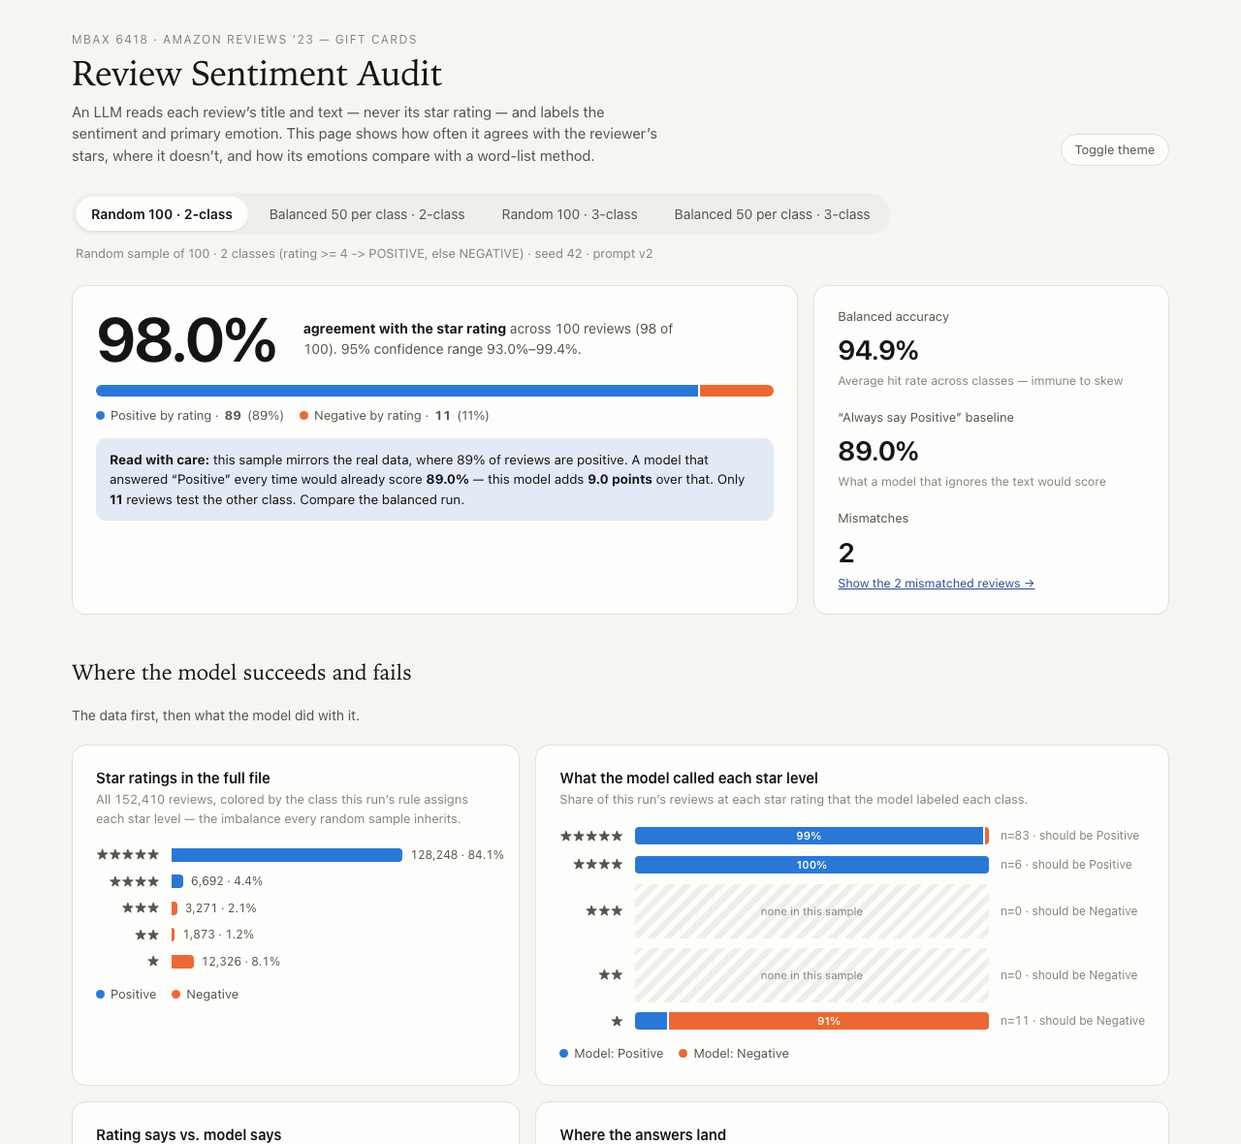
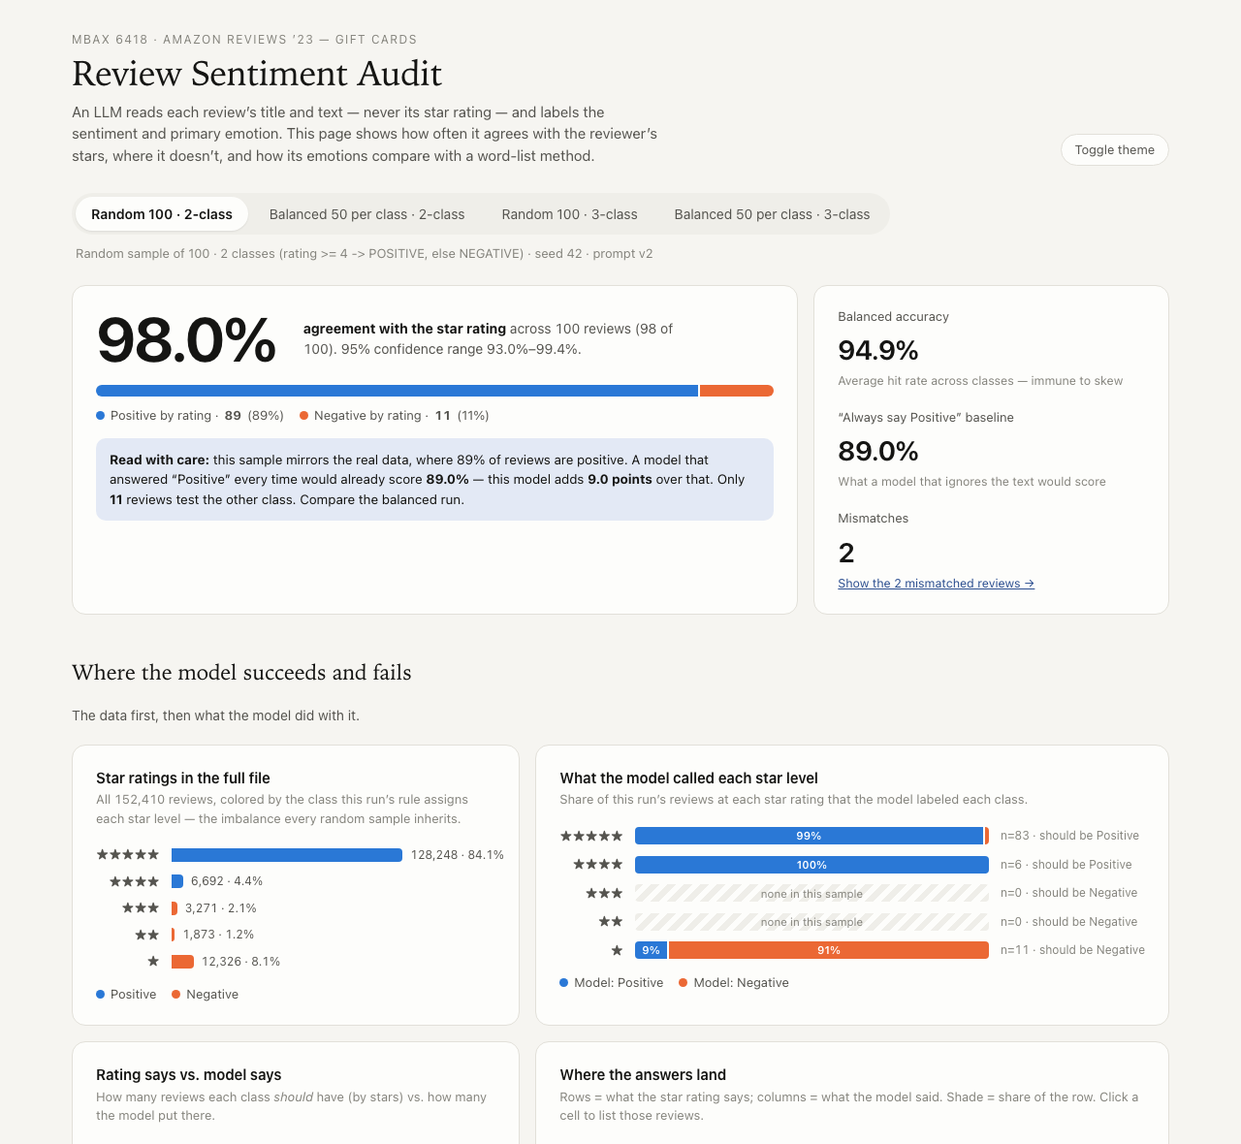
Update project

Changed region(s): [[0.4375, 0.7627, 0.9375, 1.0], [0.0625, 0.9153, 0.4062, 1.0]]

diff --git a/verify_dashboard.js b/verify_dashboard.js
@@ -91,3 +91,57 @@
   const bad = out.filter(x => x.includes('MISMATCH'));
   return `${out.length} checks, ${bad.length} mismatches\n` + (bad.length ? bad.join('\n') + '\n---\n' : '') + out.join('\n');
 })();
+
+// ── Geometry check (Step 7: "bars given zero width by a label/positioning interaction") ──
+// Run once per viewport width (e.g. 1280 / 768 / 375). For every chart on every run:
+//  * each non-zero bar/segment is >= 3px wide (never collapsed),
+//  * bar lengths are proportional to their values (within 1.5px, except where the 3px floor applies),
+//  * labels drawn inside stacked segments fit inside them,
+//  * value labels next to bars stay inside their card, and the page has no horizontal overflow.
+(() => {
+  const out = [], px = el => el.getBoundingClientRect();
+  const chk = (id, name, ok, detail = '') => out.push(`${id} | ${name}: ${ok ? 'OK' : 'FAIL'} ${detail}`);
+  const within = (a, b, tol = 1.5) => Math.abs(a - b) <= tol;
+  let shown = 0, hidden = 0;
+  for (const r of DATA.runs) {
+    selectRun(r.id);
+    // plain bar charts: all bars in one chart share one scale
+    for (const chart of ['#starDist', '#rvm', '#emoBars']) {
+      const root = $(chart); if (!root || root.offsetParent === null) continue;
+      const bars = [...root.querySelectorAll('.bar')].map(b => ({ b, v: parseFloat(b.style.width.split('*')[1]) }));
+      const card = root.closest('.card').getBoundingClientRect();
+      const maxW = Math.max(...bars.map(x => px(x.b).width));
+      bars.forEach(({ b, v }, i) => {
+        const w = px(b).width, want = v * maxW;
+        if (v > 0) chk(r.id, `${chart} bar ${i} not collapsed`, w >= 3, `${w.toFixed(1)}px`);
+        if (want >= 3) chk(r.id, `${chart} bar ${i} proportional`, within(w, want), `${w.toFixed(1)} vs ${want.toFixed(1)}px`);
+        const label = b.nextElementSibling;
+        if (label) chk(r.id, `${chart} label ${i} inside card`, px(label).right <= card.right - 8, `${px(label).right.toFixed(0)} <= ${(card.right - 8).toFixed(0)}`);
+      });
+    }
+    // 100% stacked rows (model label by star) + hit-rate tracks: segments ∝ counts
+    const stacks = [...document.querySelectorAll('#starPred .stack:not(.empty)')].map(s => [s, [...s.children].map(c => +c.dataset.count)]);
+    const tracks = [...document.querySelectorAll('#bars .track')].map(t => [t, [...t.children].map(c => +(c.getAttribute('style').match(/flex:(\d+)/)[1]))]);
+    for (const [row, counts] of [...stacks, ...tracks]) {
+      const segs = [...row.children], n = counts.reduce((a, b) => a + b, 0);
+      const usable = px(row).width - 2 * (segs.length - 1);          // 2px gaps
+      const floor = counts.filter(c => usable * c / n < 3).length;   // segments lifted to 3px
+      segs.forEach((s, i) => {
+        const w = px(s).width, want = usable * counts[i] / n;
+        chk(r.id, `stack segment (${counts[i]}/${n}) not collapsed`, w >= 3, `${w.toFixed(1)}px`);
+        if (!floor) chk(r.id, `stack segment (${counts[i]}/${n}) proportional`, within(w, want), `${w.toFixed(1)} vs ${want.toFixed(1)}px`);
+        // measure the text itself (scrollWidth equals clientWidth whenever text fits, so it can't tell)
+        const tw = el => { const g = document.createRange(); g.selectNodeContents(el); return g.getBoundingClientRect().width; };
+        if (s.textContent.trim()) { shown++; chk(r.id, `in-bar label "${s.textContent}" fits`, tw(s) + 8 <= s.clientWidth + 0.5, `${tw(s).toFixed(1)}+8 <= ${s.clientWidth}`); }
+        else if (s.dataset.lbl) {   // a hidden label must be one that genuinely would not fit
+          hidden++; s.textContent = s.dataset.lbl; const need = tw(s) + 8, have = s.clientWidth; s.textContent = '';
+          chk(r.id, `hidden label "${s.dataset.lbl}" really too wide`, need > have, `${need.toFixed(1)} > ${have}`);
+        }
+      });
+    }
+  }
+  selectRun(DATA.default_run);
+  chk('page', 'no horizontal overflow', document.documentElement.scrollWidth <= innerWidth, `${document.documentElement.scrollWidth} <= ${innerWidth}`);
+  const bad = out.filter(x => x.includes('FAIL'));
+  return `viewport ${innerWidth}px: ${out.length} geometry checks, ${bad.length} failures (in-bar labels shown ${shown}, hidden ${hidden})\n` + bad.join('\n');
+})();

diff --git a/dashboard.html b/dashboard.html
@@ -97,7 +97,12 @@ p.section-sub { grid-column: span 12; margin: 0 0 4px; color: var(--ink-2); font
 .span-12 { grid-column: span 12; } .span-8 { grid-column: span 8; } .span-7 { grid-column: span 7; }
 .span-6 { grid-column: span 6; } .span-5 { grid-column: span 5; } .span-4 { grid-column: span 4; }
 @media (max-width: 900px) { .span-8, .span-7, .span-6, .span-5, .span-4 { grid-column: span 12; } }
-@media (max-width: 520px) { .wrap { padding: 20px 16px 48px; } h1 { font-size: 28px; } .card { padding: 18px 16px; } }
+@media (max-width: 520px) {
+  .wrap { padding: 20px 16px 48px; } h1 { font-size: 28px; } .card { padding: 18px 16px; }
+  /* phones: the "n=… · should be …" note moves under its bar so the bar keeps the full width */
+  .stack-grid { grid-template-columns: max-content 1fr; row-gap: 2px; }
+  .stack-grid .stack-n { grid-column: 2; margin-bottom: 8px; }
+}
 
 .hero { display: flex; gap: 28px; align-items: center; flex-wrap: wrap; }
 .hero-fig { font-size: 64px; font-weight: 650; letter-spacing: -.03em; line-height: 1; }
@@ -457,14 +462,26 @@ function renderStarPred() {
   $('#starPred').innerHTML = [5, 4, 3, 2, 1].map(s => {
     const row = sp[s] || {}, n = L.reduce((a, l) => a + (row[l] || 0), 0), t = truthOf(s, L);
     const bar = n ? `<div class="stack">${L.filter(l => row[l]).map(l => {
-        const share = row[l] / n, lbl = share >= 0.12 ? `${Math.round(share * 100)}%` : '';
-        return `<span class="inseg" data-star="${s}" data-label="${l}" data-count="${row[l]}" style="flex:${row[l]};background:${classVar(l)}" title="${s}★ → model said ${cap(l)}: ${row[l]} of ${n} (${pct(share)})">${lbl}</span>`;
+        const share = row[l] / n;
+        return `<span class="inseg" data-star="${s}" data-label="${l}" data-count="${row[l]}" data-lbl="${Math.round(share * 100)}%" style="flex:${row[l]};background:${classVar(l)}" title="${s}★ → model said ${cap(l)}: ${row[l]} of ${n} (${pct(share)})"></span>`;
       }).join('')}</div>`
       : `<div class="stack empty">none in this sample</div>`;
     return `<div class="lab">${'★'.repeat(s)}</div>${bar}<div class="stack-n num">n=${n} · should be ${cap(t)}</div>`;
   }).join('');
   $('#starPredLegend').innerHTML = L.map(l => `<span class="key"><span class="dot" style="background:${classVar(l)}"></span>Model: ${cap(l)}</span>`).join('');
+  fitSegmentLabels();
 }
+/* Show a percentage inside a segment only if it actually fits (measured, with 4px padding each side).
+   A fixed share threshold overflowed at phone width; re-measured on every resize. */
+const textWidth = el => { const r = document.createRange(); r.selectNodeContents(el); return r.getBoundingClientRect().width; };
+function fitSegmentLabels() {
+  document.querySelectorAll('#starPred .inseg').forEach(el => {
+    el.textContent = el.dataset.lbl;
+    if (textWidth(el) + 8 > el.clientWidth) el.textContent = '';   // measure the text itself, not scrollWidth
+  });
+}
+let _fitTimer;
+addEventListener('resize', () => { clearTimeout(_fitTimer); _fitTimer = setTimeout(fitSegmentLabels, 60); });
 
 /* ── step 7c: rating says vs model says ── */
 function renderRvm() {

diff --git a/dashboard_template.html b/dashboard_template.html
@@ -97,7 +97,12 @@ p.section-sub { grid-column: span 12; margin: 0 0 4px; color: var(--ink-2); font
 .span-12 { grid-column: span 12; } .span-8 { grid-column: span 8; } .span-7 { grid-column: span 7; }
 .span-6 { grid-column: span 6; } .span-5 { grid-column: span 5; } .span-4 { grid-column: span 4; }
 @media (max-width: 900px) { .span-8, .span-7, .span-6, .span-5, .span-4 { grid-column: span 12; } }
-@media (max-width: 520px) { .wrap { padding: 20px 16px 48px; } h1 { font-size: 28px; } .card { padding: 18px 16px; } }
+@media (max-width: 520px) {
+  .wrap { padding: 20px 16px 48px; } h1 { font-size: 28px; } .card { padding: 18px 16px; }
+  /* phones: the "n=… · should be …" note moves under its bar so the bar keeps the full width */
+  .stack-grid { grid-template-columns: max-content 1fr; row-gap: 2px; }
+  .stack-grid .stack-n { grid-column: 2; margin-bottom: 8px; }
+}
 
 .hero { display: flex; gap: 28px; align-items: center; flex-wrap: wrap; }
 .hero-fig { font-size: 64px; font-weight: 650; letter-spacing: -.03em; line-height: 1; }
@@ -457,14 +462,26 @@ function renderStarPred() {
   $('#starPred').innerHTML = [5, 4, 3, 2, 1].map(s => {
     const row = sp[s] || {}, n = L.reduce((a, l) => a + (row[l] || 0), 0), t = truthOf(s, L);
     const bar = n ? `<div class="stack">${L.filter(l => row[l]).map(l => {
-        const share = row[l] / n, lbl = share >= 0.12 ? `${Math.round(share * 100)}%` : '';
-        return `<span class="inseg" data-star="${s}" data-label="${l}" data-count="${row[l]}" style="flex:${row[l]};background:${classVar(l)}" title="${s}★ → model said ${cap(l)}: ${row[l]} of ${n} (${pct(share)})">${lbl}</span>`;
+        const share = row[l] / n;
+        return `<span class="inseg" data-star="${s}" data-label="${l}" data-count="${row[l]}" data-lbl="${Math.round(share * 100)}%" style="flex:${row[l]};background:${classVar(l)}" title="${s}★ → model said ${cap(l)}: ${row[l]} of ${n} (${pct(share)})"></span>`;
       }).join('')}</div>`
       : `<div class="stack empty">none in this sample</div>`;
     return `<div class="lab">${'★'.repeat(s)}</div>${bar}<div class="stack-n num">n=${n} · should be ${cap(t)}</div>`;
   }).join('');
   $('#starPredLegend').innerHTML = L.map(l => `<span class="key"><span class="dot" style="background:${classVar(l)}"></span>Model: ${cap(l)}</span>`).join('');
+  fitSegmentLabels();
 }
+/* Show a percentage inside a segment only if it actually fits (measured, with 4px padding each side).
+   A fixed share threshold overflowed at phone width; re-measured on every resize. */
+const textWidth = el => { const r = document.createRange(); r.selectNodeContents(el); return r.getBoundingClientRect().width; };
+function fitSegmentLabels() {
+  document.querySelectorAll('#starPred .inseg').forEach(el => {
+    el.textContent = el.dataset.lbl;
+    if (textWidth(el) + 8 > el.clientWidth) el.textContent = '';   // measure the text itself, not scrollWidth
+  });
+}
+let _fitTimer;
+addEventListener('resize', () => { clearTimeout(_fitTimer); _fitTimer = setTimeout(fitSegmentLabels, 60); });
 
 /* ── step 7c: rating says vs model says ── */
 function renderRvm() {

diff --git a/check_readme_numbers.py b/check_readme_numbers.py
@@ -116,10 +116,22 @@ need("negatives: one-star", f"{mix['NEGATIVE'][1]} of 50")
 m2 = ast.literal_eval(re.search(r"100_balanced_s42_emo: (\{.*\})", sup).group(1))
 need("2-class: 3★ among negatives", f"{m2['NEGATIVE'][3]} three-star in the 2-class run")
 
+# ── Q2/Q3 evidence ──
+nn = ast.literal_eval(re.search(r"3★ reviews labeled negative \(n=\d+\): LLM emotions (\{.*\})", sup).group(1))
+need("neutral→negative emotions", f"anger {nn['anger']}, disgust {nn['disgust']}, sadness {nn['sadness']}")
+xl = re.search(r"LLM emotion x model sentiment: (.*)", sup).group(1)
+xd = {e.split(": ")[0]: dict((kv.rsplit(" ", 1)[0], int(kv.rsplit(" ", 1)[1])) for kv in e.split(": ")[1].split(", ")) for e in xl.split("; ")}
+need("joy only positive", f"only on reviews it called positive ({xd['joy']['POSITIVE']})")
+need("negative emotions", f"({xd['anger']['NEGATIVE']}, {xd['disgust']['NEGATIVE']}, {xd['sadness']['NEGATIVE']}, {xd['fear']['NEGATIVE']})")
+need("trust split", f"neutral ({xd['trust']['NEUTRAL']}) and positive ({xd['trust']['POSITIVE']})")
+need("anger-but-no-match count", re.search(r"matches nothing: (\d+)", sup).group(1) + " of the 50 negative reviews")
+need("real example present", "#4383" in sup and "ZERO BALANCE!!!")
+
 # ── verification + probe ──
 chk = (R / "dashboard_check.txt").read_text()
 need("dashboard checks", re.search(r"(\d+) checks, 0 mismatches", chk).group(1) + " checks, 0 mismatches")
-need("phone-width bars", re.search(r"\): (\d+) bars", chk).group(1) + " bars and segments")
+g = re.findall(r"(\d+)px: (\d+) checks, 0 failures", chk)
+need("geometry checks", " / ".join(n for _, n in g) + " checks")
 probe = re.search(r"thinking=True: ([\d.]+)s.*reasoning (\d+).*\nthinking=False: ([\d.]+)s", sup).groups()
 need("thinking tokens", f"{probe[1]} hidden tokens")
 need("thinking latency", f"{probe[0]} s to {probe[2]} s")

diff --git a/report_numbers.py b/report_numbers.py
@@ -64,6 +64,15 @@ say(f"reviews whose only lexicon match is 'gift': {int(only_gift.sum())}")
 neg = d[d.truth == "NEGATIVE"]
 say(f"negative reviews (n={len(neg)}): LLM says anger {int((neg.llm_emotion == 'anger').sum())}, "
     f"word list says anger {int((neg.lex_emotion == 'anger').sum())}")
+nn = d[(d.truth == "NEUTRAL") & (d.pred == "NEGATIVE")]
+say(f"3★ reviews labeled negative (n={len(nn)}): LLM emotions {vc(nn.llm_emotion)}")
+x = pd.crosstab(d.llm_emotion, d.pred)
+say("LLM emotion x model sentiment: " + "; ".join(
+    f"{e}: " + ", ".join(f"{p} {int(x.loc[e, p])}" for p in x.columns if x.loc[e, p]) for e in x.index))
+ex = d[(d.truth == "NEGATIVE") & (d.llm_emotion == "anger") & (d.lex_emotion == "none")]
+say(f"negative reviews where LLM says anger but word list matches nothing: {len(ex)}")
+for r in ex.itertuples():
+    say(f"  #{r.review_id} {r.rating}★ {r.title!r} — {str(r.text)[:80]!r}")
 pos_neu = d[(d.truth == "POSITIVE") & (d.pred == "NEUTRAL")]
 say(f"positive reviews labeled neutral: {len(pos_neu)} -> stars {vc(pos_neu.rating)}")
 

diff --git a/README.md b/README.md
@@ -94,7 +94,7 @@ Confusion matrix, balanced 3-class run (rows = what the stars say, columns = wha
 - **Neutral collapses downward into negative, not the other way round.** 30 of 50 three-star reviews (60%) were labeled negative; only 2 of 50 negative reviews (4%) were called neutral.
 - As a result the model **over-predicts negative: 77 labels vs. 50 true negatives**, so negative precision is only **61.0%** even though negative recall is **94.0%**. Neutral is under-predicted (22 labels vs. 50).
 - Positive is mostly right (**90.0%** recall); its 5 misses went to neutral — terse, flat reviews such as *"It's a gift card....,what more is there to say ?"* (5★) and *"Gas card."* (5★).
-- **Reading the 30 neutral→negative reviews, most are complaints**: a missing gift message, a dented card, a $6.95 loading fee, a card that won't add to Apple/Google Wallet. The text is negative; the reviewer just chose a middling score. So much of this "error" is a disagreement between what reviewers *write* and what they *rate*, not a misreading — the model is judging text, and 3★ text in this category is mostly unhappy.
+- **Reading the 30 neutral→negative reviews, most are complaints**: a missing gift message, a dented card, a $6.95 loading fee, a card that won't add to Apple/Google Wallet. The model's own emotion labels agree: all 30 got a negative emotion (anger 18, disgust 8, sadness 4). The text is negative; the reviewer just chose a middling score. So much of this "error" is a disagreement between what reviewers *write* and what they *rate*, not a misreading — the model is judging text, and 3★ text in this category is mostly unhappy.
 - The same pattern is visible in the 2-class balanced run: all 4 three-star reviews it happened to include were labeled negative.
 
 ![Filtered to the 30 three-star reviews labeled negative](screenshots/dashboard_filter_neutral_to_negative.png)
@@ -113,11 +113,11 @@ Balanced 3-class run (150 reviews):
 - **They rarely agree: 16.0% exact**, 31.3% if the LLM's emotion merely appears among the word list's tied top emotions.
 - **Agreement collapses on unhappy reviews:** exact agreement is 34% for positive reviews but **6% for neutral and 8% for negative**. On the 50 negative reviews the LLM says *anger* 38 times; the word list says *anger* twice.
 - **Why:**
-  1. **The words that carry complaints aren't in the lexicon.** "scam", "refund", "card", "amazon", "cheated", "useless" and "ripoff" have no emotion in NRC. A review like *"Card had a $0 balance, Amazon won't refund me"* has no anger words at all, while the LLM reads the situation.
+  1. **The words that carry complaints aren't in the lexicon.** "scam", "refund", "card", "amazon", "cheated", "useless" and "ripoff" have no emotion in NRC. Real example: *"ZERO BALANCE!!! — Fandango card was empty!"* (1★) matches no lexicon word at all, while the LLM calls it anger; 4 of the 50 negative reviews look like this.
   2. **Domain words dominate and mislead.** "gift" is linked to anticipation, joy *and* surprise, and matched 143 times across 68 of the 150 reviews. 36 of the 51 ties involve "gift", and 22 ties are exactly its anticipation/joy/surprise set. "money" is linked to anger, anticipation, joy, surprise *and* trust at once. The word list is scoring the product category, not the reviewer's feeling.
   3. **No context:** the lexicon can't handle negation ("not happy"), sarcasm, or the fact that *what happened* (a card that didn't activate) implies anger without any emotional words.
   4. **Reviews are short** (median 8 words), so a word count has very little to work with — 30 of 150 matched nothing.
-- **Caveat on the LLM side:** its emotions aren't checked against any ground truth either. They are consistent with the sentiment labels and more plausible on reading, but the prompt's definitions (e.g. "satisfied → trust or joy") shape them.
+- **Caveat on the LLM side:** its emotions aren't checked against any ground truth either. They are internally consistent with its sentiment labels: *joy* appears only on reviews it called positive (39), *anger*, *disgust*, *sadness* and *fear* only on reviews it called negative (56, 14, 6, 1), and *trust* splits between neutral (19) and positive (12). That consistency is partly by design: the prompt's definitions (e.g. "satisfied → trust or joy") shape the choice, and both labels come from the same reply.
 
 ![Emotion comparison](screenshots/dashboard_emotions.png)
 
@@ -129,15 +129,20 @@ Balanced 3-class run (150 reviews):
 | Parsing | Free-text JSON from a model can be malformed. | Used the endpoint's enum-constrained JSON schema: 0 unparseable replies across all runs. |
 | Sampling | The random 100 contained no 2★/3★ reviews, so neutral recall was 0/0 and balanced accuracy / macro-F1 came out `NaN` — and `NaN` isn't valid JSON, which would have broken the dashboard. | Averages now use only the classes present and name the absent class; `NaN` → `null`; the dashboard shows hatched "none in this sample" areas instead of a fake 0%. |
 | Word list | My first tie-break ("earliest word wins") couldn't separate emotions triggered by the *same* word and silently fell back to alphabetical order, handing ~20% of reviews to "anticipation". | Unbreakable ties are now labeled `tie`, with the tied set kept; agreement is reported both strictly and leniently. |
-| Charts | Very small values (the 1.2% 2★ bar, a 1-review segment, a 4★ row with n=1) risk rendering at 0 px — the layout bug the brief warns about. | `min-width: 3px` on every non-zero bar. Verified by **measuring rendered widths in the browser** at 1280 px and 375 px: 0 collapsed. |
+| Charts | Very small values (the 1.2% 2★ bar, a 1-review segment, a 4★ row with n=1) risk rendering at 0 px — the layout bug the brief warns about. | `min-width: 3px` on every non-zero bar, then verified by **measuring rendered geometry in the browser** (see below). |
+| Charts | A geometry check at phone width found two in-bar labels ("33%", "30%") wider than their segments, spilling onto the neighbouring colour — a label/positioning interaction. The same check showed why: on phones the stacked bars got only 70 px of 309, because the "n=50 · should be Neutral" note beside them took 149 px. | The note moves under the bar on narrow screens (bar now 167 px), and in-bar labels are shown only when measured to fit, re-measured on resize. |
+| Charts | My first label-fit test compared `scrollWidth` to the segment width, which is always "too wide" when text fits — so it hid **every** label, and the matching check passed vacuously. Caught only because the check also reports how many labels are shown (0). | Measure the text's own width; the check now also confirms each hidden label genuinely wouldn't fit. |
 | Colors | Neutral was first drawn in gray, which failed a colorblind/chroma validator; yellow and pink failed next to orange. | Blue / aqua / orange passes every pairwise check in light and dark mode. |
 | UI | Run tabs wrapped into a broken pill on phones; a filter label broke onto two lines; review text showed raw `<br />` tags. | Scrolling tabs, `nowrap` labels, `<br />` converted to spaces/newlines. |
 | Screenshots | The in-app browser pane and headless Chrome both captured **blank** images after scrolling. | Added a `?section=` deep link that shows just the requested card under the header, and captured with headless Chrome. |
 | Repeatability | Re-scoring live at temperature 0 still changed 1 of 150 sentiment labels and 5 of 150 emotions (GPU batching nondeterminism). | Published numbers are computed only from the saved raw output; the re-run result is reported openly (see *Repeatability, checked*). |
 | Reproducibility | The full-file star chart needed the raw data, which isn't committed. | The generator saves `results/dataset_summary.json`, so the dashboard rebuilds from a fresh clone. |
-| Working with the agent | <!-- Add your own experience here: e.g. early on the agent wrote scripts without running them because of a saved preference, and switching it to "run everything" was faster; anything you had to correct or re-check yourself. --> | |
+| Working with the agent | At first the agent only wrote scripts for me to run (it had saved that preference from an earlier project), and an early answer about "why do we need an API" was confusing — the agent drives the work, the endpoint does the classifying. | Told it to run everything itself; clarified the split between agent (writes/runs code) and endpoint (labels reviews). <!-- REVIEW: rewrite in your own words and add anything else you noticed. --> |
+| Working with the agent | The agent's own drafts contained mistakes that only checks caught: the alphabetical tie-break above, a draft sentence saying "gift" appeared in 143 *reviews* (it is 143 *matches* in 68 reviews), and the within-class star skew was missed until I asked for an audit against the standing considerations. | Asked for every claim to be recomputed from saved files: `check_readme_numbers.py` now re-derives all README figures, and `check_repeatability.py` re-tests the rating-never-seen and repeatability rules. |
 
-**Numbers check:** `verify_dashboard.js` compares every number on the page against the saved metrics and rows, in the browser: **429 checks, 0 mismatches** across all 4 runs, plus a width check on 156 bars and segments at phone width (record in `results/dashboard_check.txt`).
+**Numbers check:** `verify_dashboard.js` compares every number on the page against the saved metrics and rows, in the browser: **429 checks, 0 mismatches** across all 4 runs.
+
+**Geometry check:** the same script measures every rendered bar at 1280, 768 and 375 px: each non-zero bar is at least 3 px, bar lengths are proportional to their values within 1.5 px, in-bar labels fit, and value labels stay inside their cards — **0 failures at all three widths** (228 / 228 / 223 checks). Record: `results/dashboard_check.txt`.
 
 ---
 

diff --git a/ISSUES_LOG.md b/ISSUES_LOG.md
@@ -18,3 +18,6 @@
 | 7 | Balanced runs labeled the baseline "Always say Positive" although all classes are equal. | Label switches to "Always guess one class" on balanced runs. |
 | audit | Temperature 0 is not fully deterministic on the class server: a live re-run of the balanced 3-class batch changed 1/150 sentiment labels and 5/150 emotions (72.0% vs 71.3%). | Numbers are computed only from saved raw output; documented in README; `check_repeatability.py` records it. |
 | audit | "None in this sample" placeholders rendered 56px tall instead of 18px: they reused the `.empty` class of the table's no-results row and inherited its 28px padding (found by inspecting computed styles in the browser). | Scoped the table rule to `td.empty`. |
+| audit | Geometry check at 375px: in-bar percentage labels "33%" and "30%" were wider than their segments (24px text in a 23px / 20px segment) and spilled onto the neighbouring colour — a label/positioning interaction. Bars stayed proportional. | Labels are now shown only when measured to fit (with padding) and re-measured on resize; the value stays in the tooltip. |
+| audit | Geometry check at 375px: in-bar labels "33%"/"30%" overflowed their segments; root cause was the stacked bars getting only 70px of 309 because the "n=… · should be …" note sat beside them. | Note moves under the bar on phones (bar 167px); labels shown only when measured to fit, re-measured on resize. |
+| audit | First label-fit test used `scrollWidth`, which equals the box width whenever text fits, so it hid every label and the check passed vacuously (spotted via "labels shown: 0"). | Measure the text width with a Range; check confirms each hidden label is genuinely too wide. |
